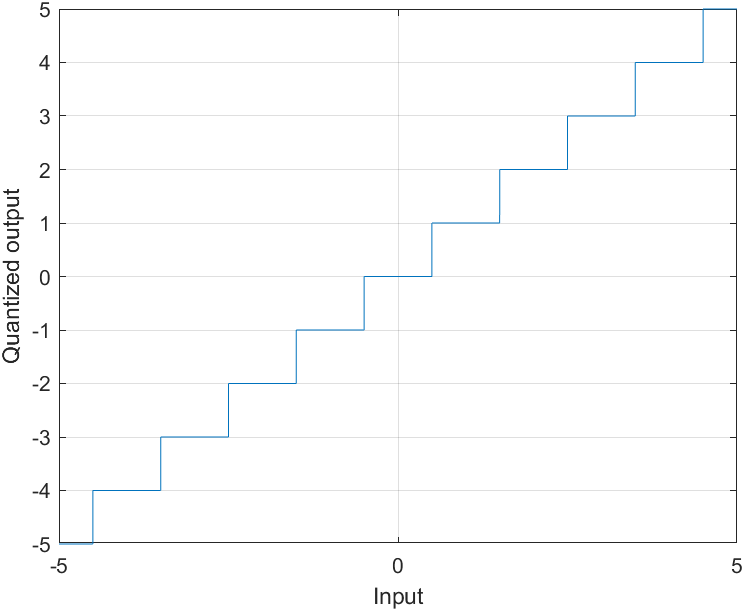
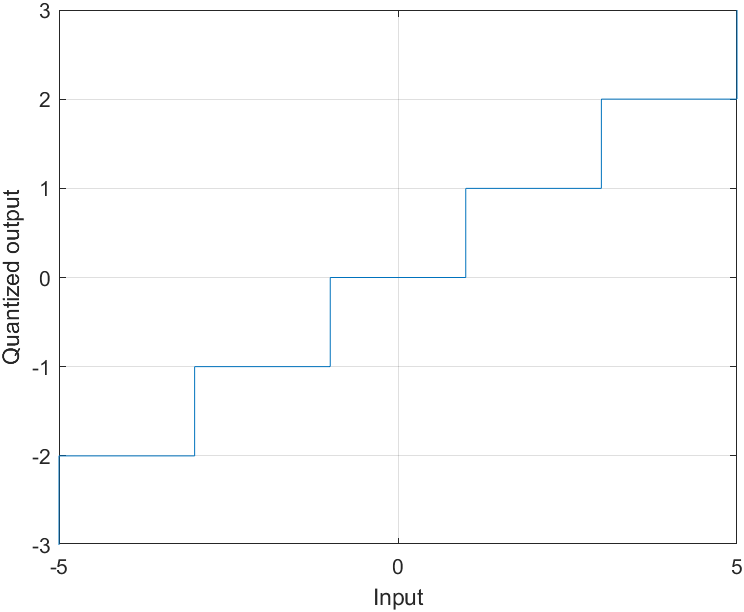
update

diff --git a/part3.m b/part3.m
@@ -1,3 +1,4 @@
+clear
 %% apply FWT with Daubechies 8-tap filter to image harbour
 % https://wavelets.pybytes.com/wavelet/db8/
 db8 = [-0.00011747678400228192
@@ -19,7 +20,7 @@ db8 = [-0.00011747678400228192
 ];
 
 img = imread("images\harbour512x512.tif");
-imshow(img)
+%imshow(img)
 img = double(img(:));
 
 y = fwt(img, db8);
@@ -30,8 +31,8 @@ inv_db8 = db8(length(db8)-i+1);
 result = inv_fwt(y, inv_db8);
 
 img_reconst = reshape(result, [sqrt(length(result)), sqrt(length(result))]);
-figure
-imshow(uint8(img_reconst))
+% figure
+% imshow(uint8(img_reconst))
 
 % compare the two images if they are equal, to test if our FWT
 % implementation works.
@@ -156,8 +157,8 @@ for i = 0:9
 
     h1low = inv_fwt([q_h2_low; q_h2_high], inv_db8);
     h_recons = inv_fwt([h1low; q_h1_high], inv_db8);
-    figure
-    imshow(uint8(reshape(h_recons, [512, 512])))
+    %figure
+    %imshow(uint8(reshape(h_recons, [512, 512])))
 
     % calculate distortion
     d_b(i+1) = immse(b_recons, img_boat);
@@ -165,15 +166,15 @@ for i = 0:9
     d_h(i+1) = immse(h_recons, img_harbour);
 
     % calculate the entropy (bit-rate estimation)
-    e_b(i+1) = entropy(uint8(b_recons));
-    e_p(i+1) = entropy(uint8(p_recons));
-    e_h(i+1) = entropy(uint8(h_recons));
+    e_b(i+1) = (4*entropy(q_b2_low) + 4*entropy(q_b2_high) + 2*entropy(q_b1_high));
+    e_p(i+1) = (4*entropy(q_p2_low) + 4*entropy(q_p2_high) + 2*entropy(q_p1_high));
+    e_h(i+1) = (4*entropy(q_h2_low) + 4*entropy(q_h2_high) + 2*entropy(q_h1_high));
 end
 
 % compare d and difference between wavelet coefficients and their quantized
 % versions
 
-q_dist = (immse(boat2_high, q_b2_high) + immse(boat1_high, q_b1_high) + immse(boat2_low, q_b2_low))/3;
+q_dist = (4*immse(boat2_high, q_b2_high) + 2*immse(boat1_high, q_b1_high) + 4*immse(boat2_low, q_b2_low))/10;
 disp(d_h(end))
 disp(q_dist)
 

diff --git a/part2.m b/part2.m
@@ -1,3 +1,4 @@
+clear
 %% 8x8 DCT block
 
 % calculate the A matrix
@@ -34,7 +35,8 @@ stepsize = 2;
 quantized = stepsize * round(dct_result/stepsize); 
 
 syms q(x)
-q(x) = round(x/stepsize);
+q(x) = stepsize * round(x/stepsize);
+figure
 fplot(q)
 grid on
 xlabel("Input")
@@ -79,10 +81,10 @@ for i = 0:9
     quantized_p = stepsize * round(dct_peppers/stepsize);
     quantized_h = stepsize * round(dct_harbour/stepsize);
 
-    % reconstruct the images
-    b_rec = blockproc(quantized_b, [8 8], inverse_dct);
-    p_rec = blockproc(quantized_p, [8 8], inverse_dct);
-    h_rec = blockproc(quantized_h, [8 8], inverse_dct);
+%     % reconstruct the images
+%     b_rec = blockproc(quantized_b, [8 8], inverse_dct);
+%     p_rec = blockproc(quantized_p, [8 8], inverse_dct);
+%     h_rec = blockproc(quantized_h, [8 8], inverse_dct);
     
     % calculate the distortion
     d_b(i+1) = immse(quantized_b, dct_boat);
@@ -91,12 +93,9 @@ for i = 0:9
 
     % calculate the bit rate (in this case, the estimation is entropy,
     % because we assumed that we use the ideal code word length of VLC.)
-    e_b(i+1) = entropy(uint8(b_rec));
-    e_p(i+1) = entropy(uint8(p_rec));
-    e_h(i+1) = entropy(uint8(h_rec));
-%     e_b(i+1) = entropy(quantized_b);
-%     e_p(i+1) = entropy(quantized_p);
-%     e_h(i+1) = entropy(quantized_h);
+    e_b(i+1) = entropy(quantized_b);
+    e_p(i+1) = entropy(quantized_p);
+    e_h(i+1) = entropy(quantized_h);
 end
 
 % calculate PSNR
@@ -108,6 +107,7 @@ p_p = 10*log10(255^2./d_p);
 figure
 plot(d_b, e_b)
 hold on
+grid on
 plot(d_h,e_h)
 plot(d_p,e_p)
 legend(["Boats", "Harbour", "Peppers"])
@@ -117,6 +117,7 @@ ylabel("Rate")
 figure
 plot(e_b, p_b)
 hold on
+grid on
 plot(e_h, p_h)
 plot(e_p, p_p)
 legend(["Boats", "Harbour", "Peppers"])
